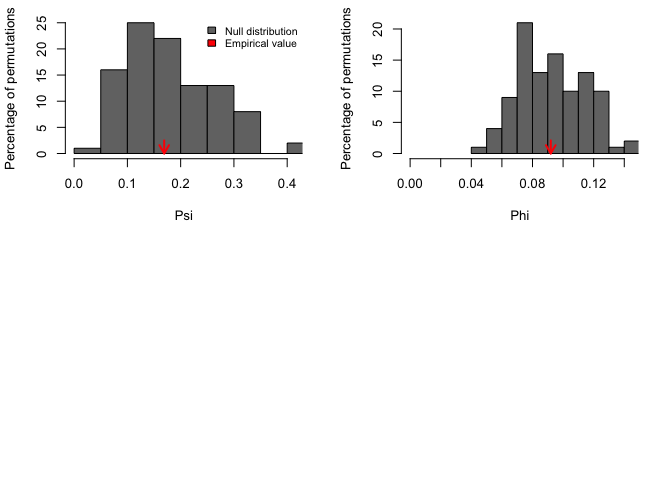
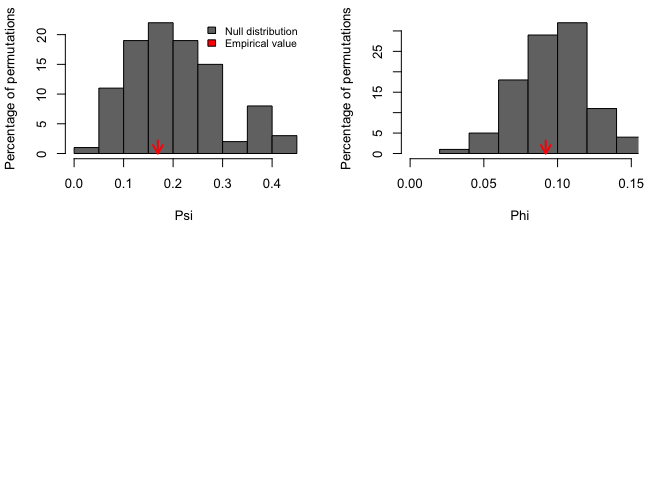
new commit

diff --git a/README.md b/README.md
@@ -52,8 +52,8 @@ result<-PCAtest(ex0, 100, 100, 0.05, varcorr=FALSE, counter=FALSE, plot=TRUE)
 #> 100 bootstrap replicates, 100 random permutations
 #> ========================================================
 #> 
-#> Empirical Psi = 0.1691, Max null Psi = 0.4123, Min null Psi = 0.0393, p-value = 0.47
-#> Empirical Phi = 0.0920, Max null Phi = 0.1436, Min null Phi = 0.0443, p-value = 0.47
+#> Empirical Psi = 0.1691, Max null Psi = 0.4437, Min null Psi = 0.0258, p-value = 0.62
+#> Empirical Phi = 0.0920, Max null Phi = 0.1490, Min null Phi = 0.0359, p-value = 0.62
 #> 
 #> PCA is not significant!
 ```
@@ -78,16 +78,16 @@ result<-PCAtest(ex05, 100, 100, 0.05, varcorr=FALSE, counter=FALSE, plot=TRUE)
 #> 100 bootstrap replicates, 100 random permutations
 #> ========================================================
 #> 
-#> Empirical Psi = 5.4655, Max null Psi = 0.4157, Min null Psi = 0.0546, p-value = 0
-#> Empirical Phi = 0.5228, Max null Phi = 0.1442, Min null Phi = 0.0523, p-value = 0
+#> Empirical Psi = 5.4655, Max null Psi = 0.4878, Min null Psi = 0.0736, p-value = 0
+#> Empirical Phi = 0.5228, Max null Phi = 0.1562, Min null Phi = 0.0607, p-value = 0
 #> 
-#> Empirical eigenvalue #1 = 3.08098, Max null eigenvalue = 1.49787, p-value = 0
-#> Empirical eigenvalue #2 = 0.63526, Max null eigenvalue = 1.25772, p-value = 1
-#> Empirical eigenvalue #3 = 0.52603, Max null eigenvalue = 1.08087, p-value = 1
-#> Empirical eigenvalue #4 = 0.43234, Max null eigenvalue = 0.99539, p-value = 1
-#> Empirical eigenvalue #5 = 0.3254, Max null eigenvalue = 0.86255, p-value = 1
+#> Empirical eigenvalue #1 = 3.08098, Max null eigenvalue = 1.45248, p-value = 0
+#> Empirical eigenvalue #2 = 0.63526, Max null eigenvalue = 1.23669, p-value = 1
+#> Empirical eigenvalue #3 = 0.52603, Max null eigenvalue = 1.11611, p-value = 1
+#> Empirical eigenvalue #4 = 0.43234, Max null eigenvalue = 0.97139, p-value = 1
+#> Empirical eigenvalue #5 = 0.3254, Max null eigenvalue = 0.85561, p-value = 1
 #> 
-#> PC 1 is significant and accounts for 61.6% (95%-CI:56.3-68) of the total variation
+#> PC 1 is significant and accounts for 61.6% (95%-CI:54.3-67.4) of the total variation
 #> 
 #> Variables 1, 2, 3, 4, and 5 have significant loadings on PC 1
 ```
@@ -114,14 +114,14 @@ result<-PCAtest(ex1, 100, 100, 0.05, varcorr=FALSE, counter=FALSE, plot=TRUE)
 #> 100 bootstrap replicates, 100 random permutations
 #> ========================================================
 #> 
-#> Empirical Psi = 20.0000, Max null Psi = 0.4716, Min null Psi = 0.0418, p-value = 0
-#> Empirical Phi = 1.0000, Max null Phi = 0.1536, Min null Phi = 0.0457, p-value = 0
+#> Empirical Psi = 20.0000, Max null Psi = 0.4898, Min null Psi = 0.0449, p-value = 0
+#> Empirical Phi = 1.0000, Max null Phi = 0.1565, Min null Phi = 0.0474, p-value = 0
 #> 
-#> Empirical eigenvalue #1 = 5, Max null eigenvalue = 1.4921, p-value = 0
-#> Empirical eigenvalue #2 = 0, Max null eigenvalue = 1.22417, p-value = 1
-#> Empirical eigenvalue #3 = 0, Max null eigenvalue = 1.11378, p-value = 1
-#> Empirical eigenvalue #4 = 0, Max null eigenvalue = 0.98398, p-value = 1
-#> Empirical eigenvalue #5 = 0, Max null eigenvalue = 0.88335, p-value = 1
+#> Empirical eigenvalue #1 = 5, Max null eigenvalue = 1.56104, p-value = 0
+#> Empirical eigenvalue #2 = 0, Max null eigenvalue = 1.29453, p-value = 1
+#> Empirical eigenvalue #3 = 0, Max null eigenvalue = 1.09254, p-value = 1
+#> Empirical eigenvalue #4 = 0, Max null eigenvalue = 0.98273, p-value = 1
+#> Empirical eigenvalue #5 = 0, Max null eigenvalue = 0.88869, p-value = 1
 #> 
 #> PC 1 is significant and accounts for 100% (95%-CI:100-100) of the total variation
 #> 
@@ -149,18 +149,18 @@ result<-PCAtest(ants, 100, 100, 0.05, varcorr=FALSE, counter=FALSE, plot=TRUE)
 #> 100 bootstrap replicates, 100 random permutations
 #> ========================================================
 #> 
-#> Empirical Psi = 10.9186, Max null Psi = 2.5257, Min null Psi = 0.4312, p-value = 0
-#> Empirical Phi = 0.5099, Max null Phi = 0.2452, Min null Phi = 0.1013, p-value = 0
+#> Empirical Psi = 10.9186, Max null Psi = 3.0863, Min null Psi = 0.6896, p-value = 0
+#> Empirical Phi = 0.5099, Max null Phi = 0.2711, Min null Phi = 0.1281, p-value = 0
 #> 
-#> Empirical eigenvalue #1 = 3.84712, Max null eigenvalue = 2.14286, p-value = 0
-#> Empirical eigenvalue #2 = 1.52017, Max null eigenvalue = 1.63074, p-value = 0.1
-#> Empirical eigenvalue #3 = 0.70634, Max null eigenvalue = 1.41902, p-value = 1
-#> Empirical eigenvalue #4 = 0.41356, Max null eigenvalue = 1.12539, p-value = 1
-#> Empirical eigenvalue #5 = 0.34001, Max null eigenvalue = 0.93312, p-value = 1
-#> Empirical eigenvalue #6 = 0.14515, Max null eigenvalue = 0.80617, p-value = 1
-#> Empirical eigenvalue #7 = 0.02765, Max null eigenvalue = 0.63842, p-value = 1
+#> Empirical eigenvalue #1 = 3.84712, Max null eigenvalue = 2.33334, p-value = 0
+#> Empirical eigenvalue #2 = 1.52017, Max null eigenvalue = 1.63958, p-value = 0.14
+#> Empirical eigenvalue #3 = 0.70634, Max null eigenvalue = 1.36886, p-value = 1
+#> Empirical eigenvalue #4 = 0.41356, Max null eigenvalue = 1.16601, p-value = 1
+#> Empirical eigenvalue #5 = 0.34001, Max null eigenvalue = 1.00719, p-value = 1
+#> Empirical eigenvalue #6 = 0.14515, Max null eigenvalue = 0.78543, p-value = 1
+#> Empirical eigenvalue #7 = 0.02765, Max null eigenvalue = 0.60957, p-value = 1
 #> 
-#> PC 1 is significant and accounts for 55% (95%-CI:44.7-64.1) of the total variation
+#> PC 1 is significant and accounts for 55% (95%-CI:41.4-63.6) of the total variation
 #> 
 #> Variables 1, 2, 3, 4, 5, and 7 have significant loadings on PC 1
 ```
@@ -169,4 +169,4 @@ result<-PCAtest(ants, 100, 100, 0.05, varcorr=FALSE, counter=FALSE, plot=TRUE)
 
 ## Testing
 
-[Automated testing with testthat:](tests/testthat/testhat.md)
+[Automated testing with testthat](tests/testthat/testthat.md)
